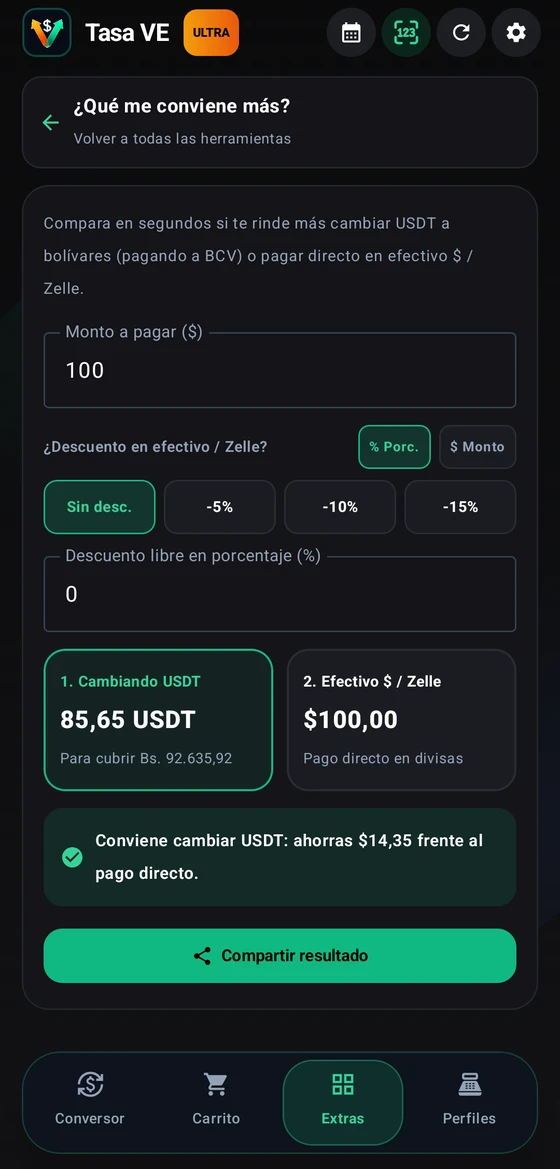
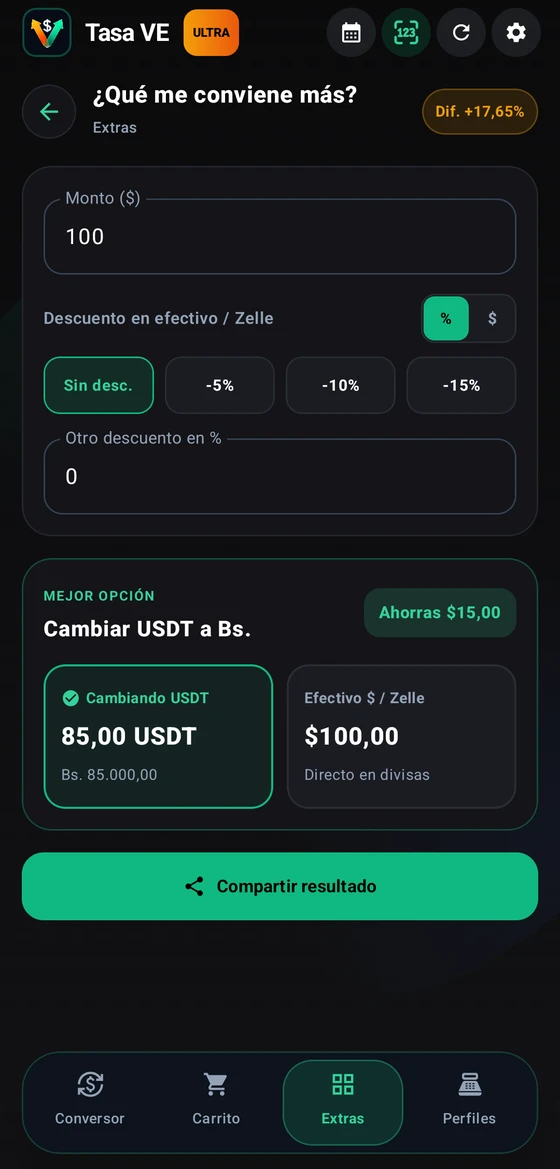
chore(web): update Extras screenshot after UI redesign

diff --git a/docs/index.html b/docs/index.html
@@ -220,7 +220,7 @@
             <p class="story-desc">Compara en segundos si te rinde más cambiar USDT o usar efectivo/Zelle, y reparte una cuenta entre amigos compartiendo una imagen clara en la moneda que elijas.</p>
             <div class="story-shot-wrap">
               <div class="story-shot-frame">
-                <img src="assets/screens/screen_utiles.webp?v=20261127c" alt="Herramienta ¿Qué me conviene más? en Extras de Tasa VE" width="560" height="1169" loading="lazy">
+                <img src="assets/screens/screen_utiles.webp?v=20261127d" alt="Herramienta ¿Qué me conviene más? en Extras de Tasa VE" width="560" height="1169" loading="lazy">
               </div>
             </div>
           </article>
